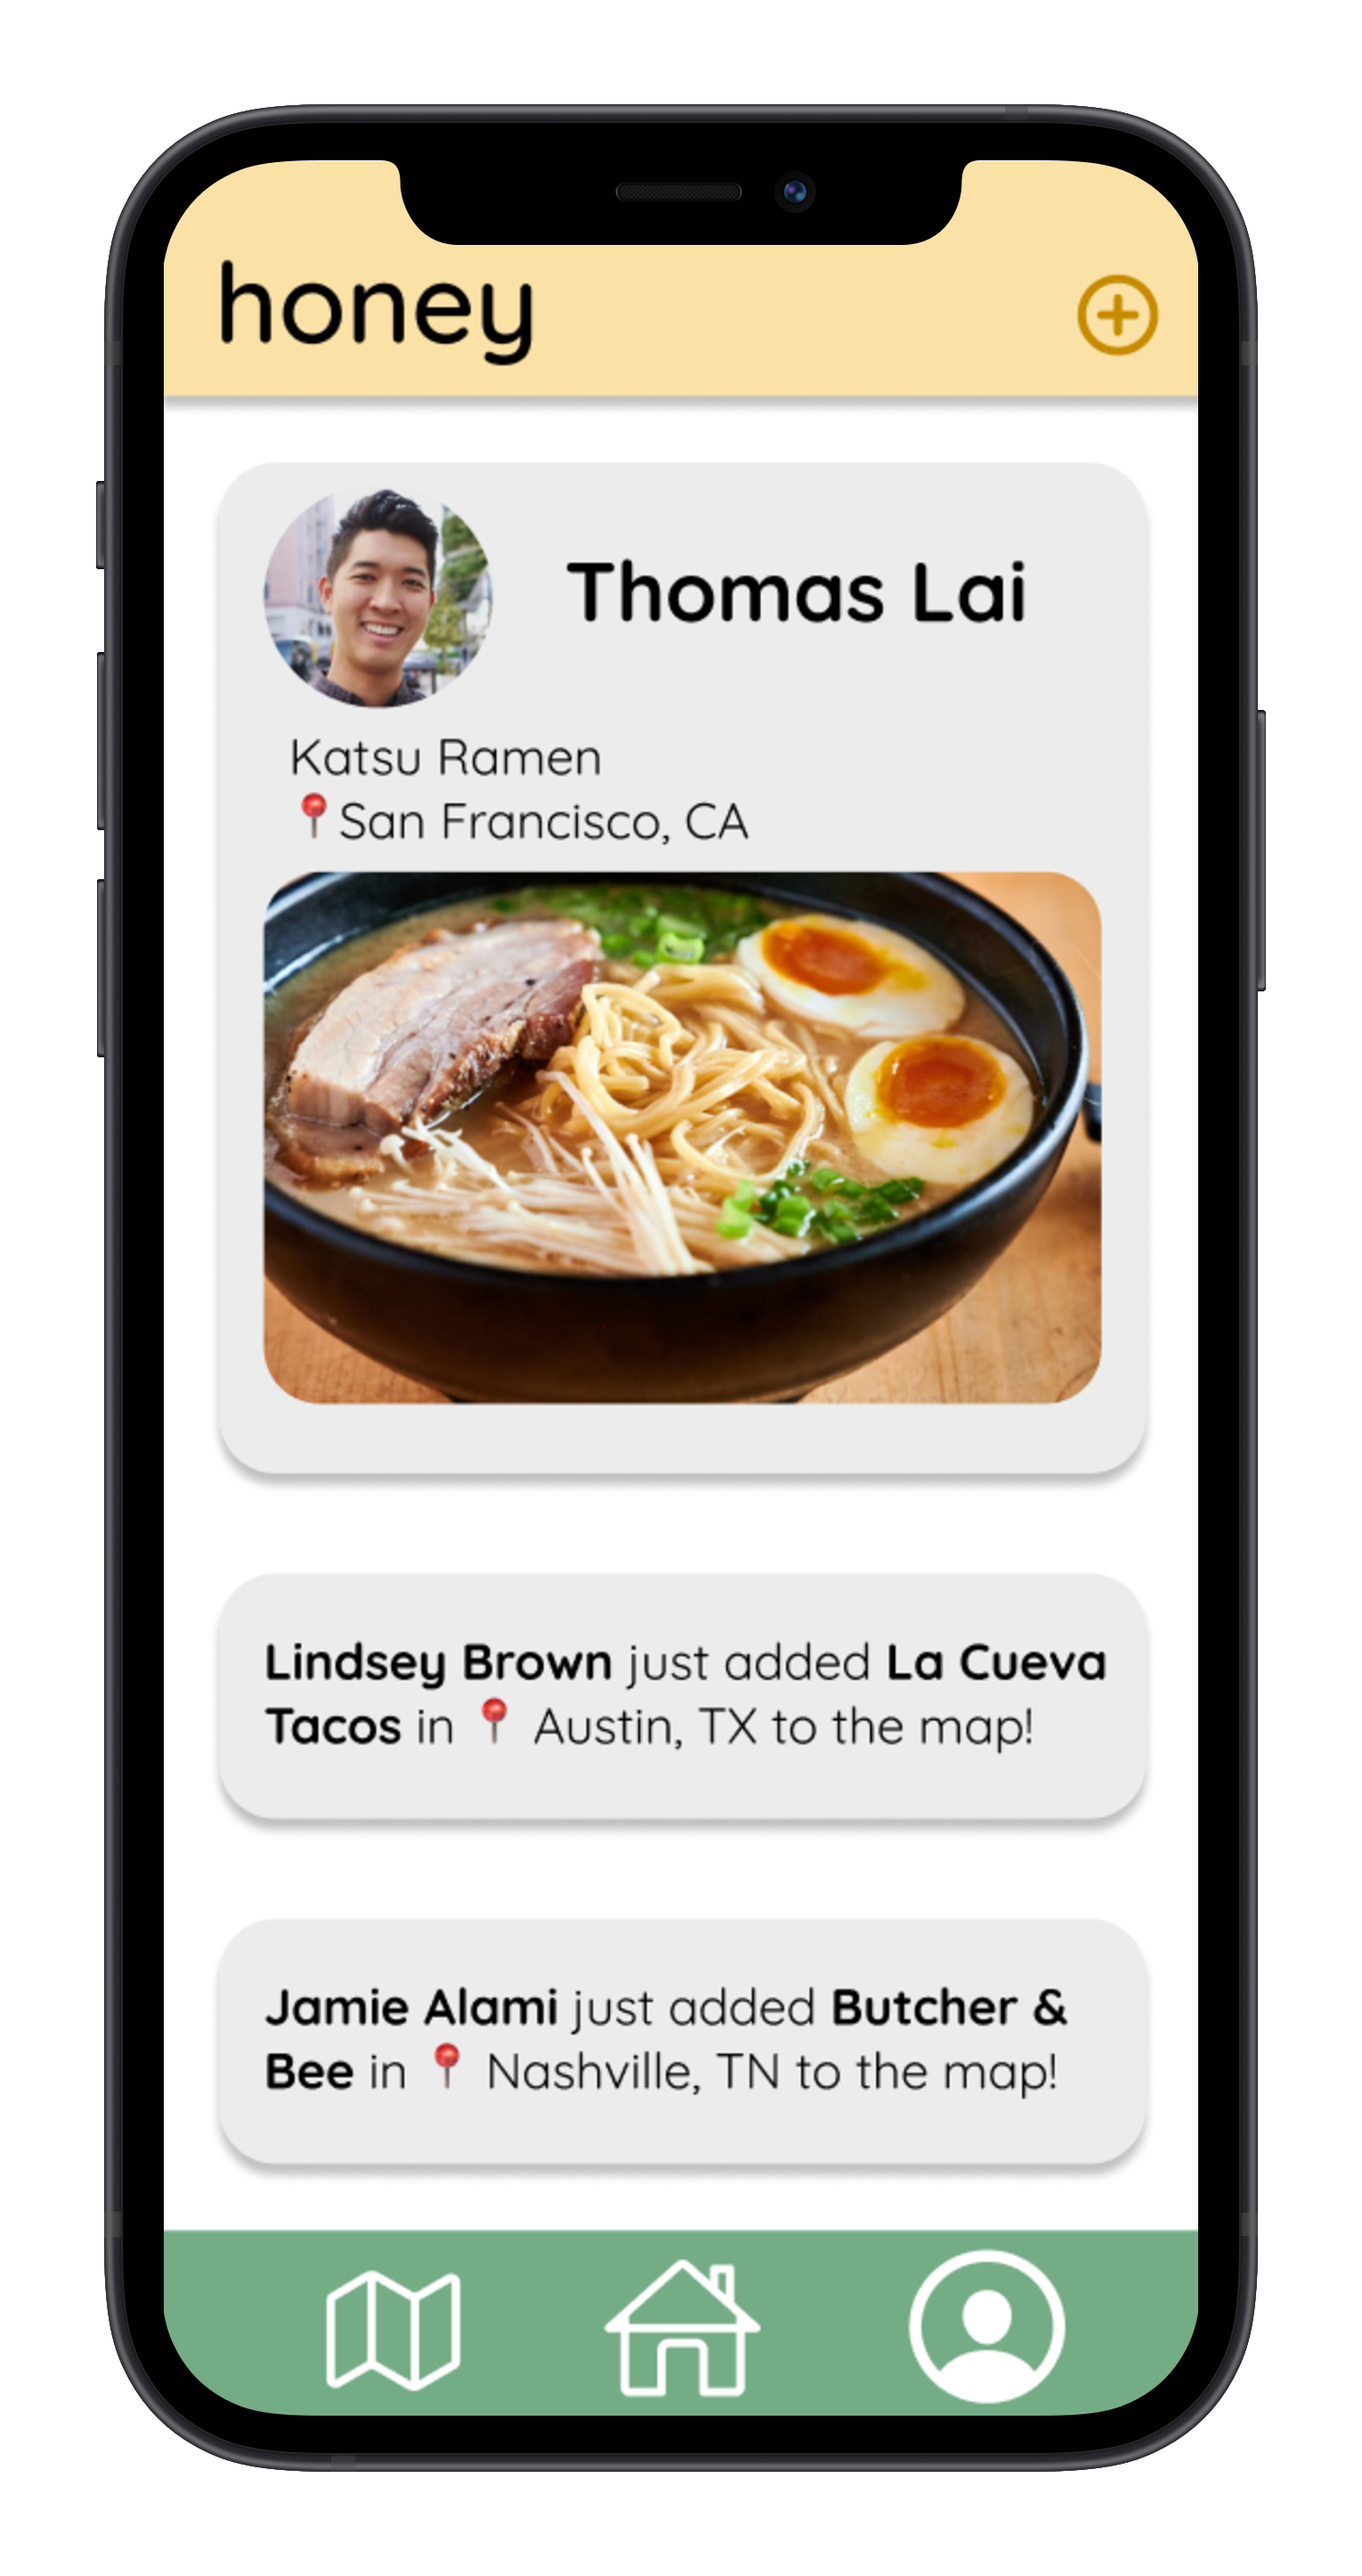
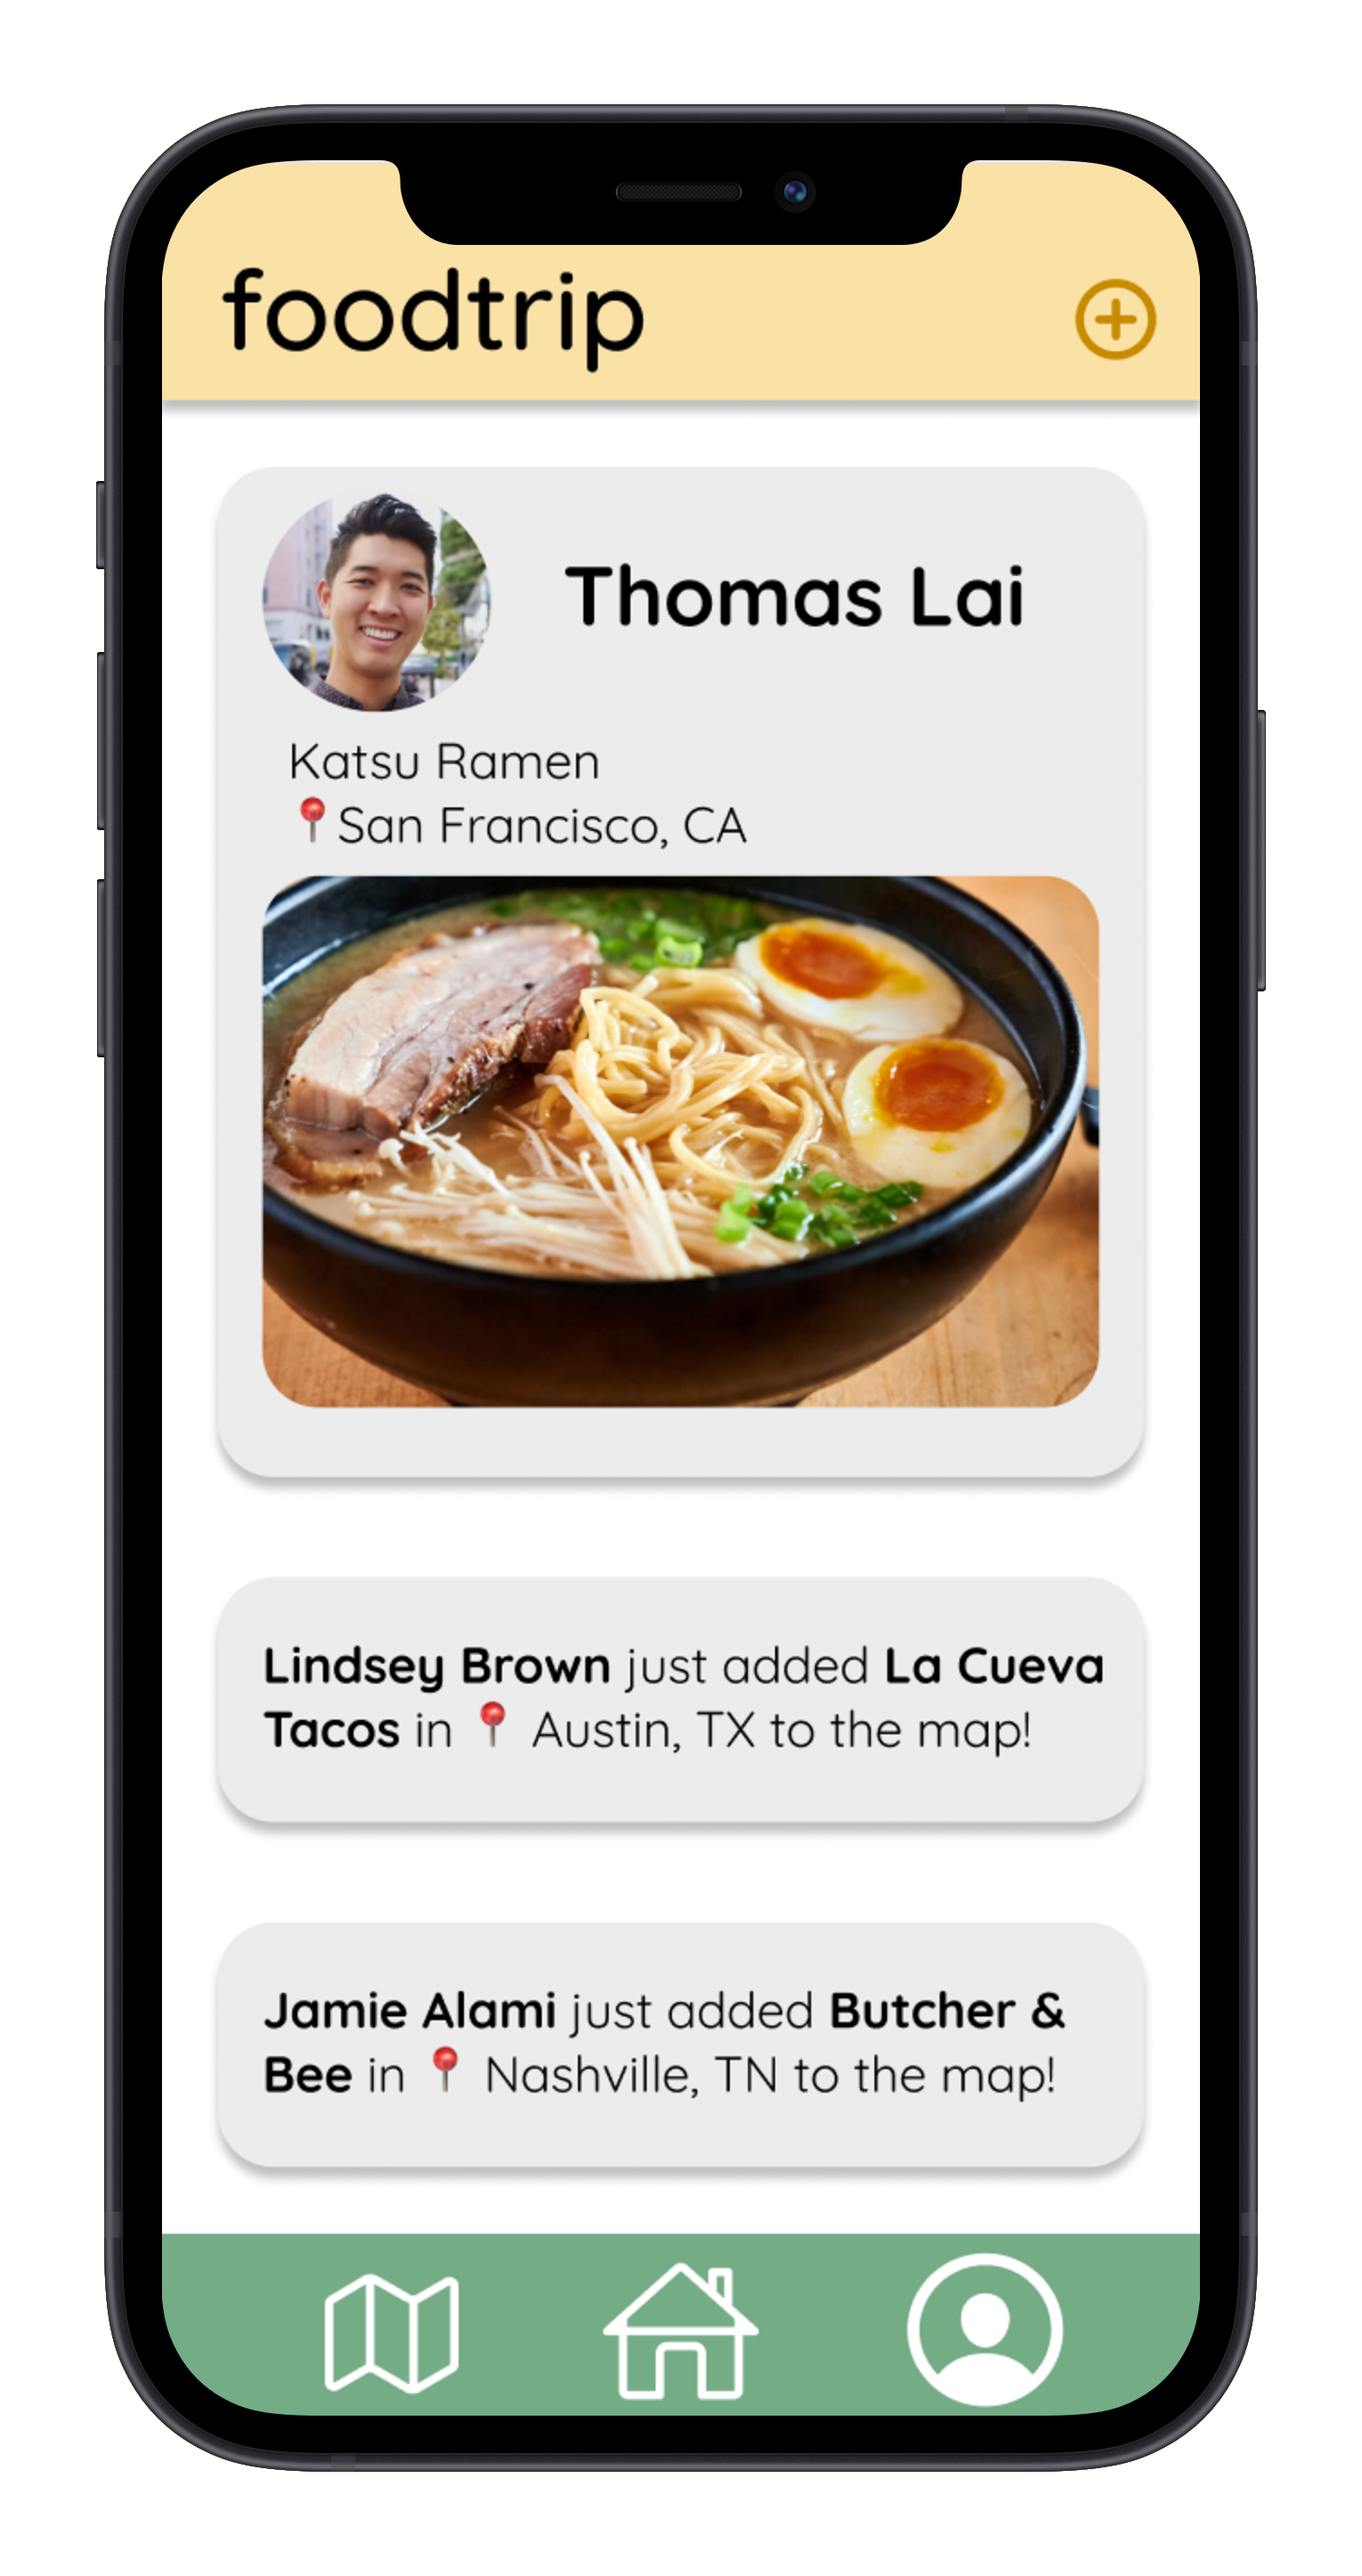
Foodtrip

diff --git a/index.html b/index.html
@@ -18,7 +18,7 @@
 
     <meta property="og:image" content="img/preview.png"/>
     <meta property="og:description" content="The socialized food app for people who want the best dining experiences around the world 🌎"/>
-    <title>Honey | Socialized Food 🍽</title>
+    <title>Foodtrip | Socialized Food 🍽</title>
 </head>
 
 <body>
@@ -28,7 +28,7 @@
     <!-- Navigation Bar -->
     <nav>
       <div class="logo">
-        <a href="https://honey-eats.com/"><img src="img/honey-1.png" alt="Logo" width="70vh"></a>
+        <a href="https://foodtrip.dev/"><img src="img/honey-1.png" alt="Logo" width="70vh"></a>
       </div>
 
       <div class="hamburger">
@@ -50,7 +50,7 @@
         <div class="column-2" data-aos="fade-up" data-aos-duration="1000">
           <div class="card-2">
             <br><br><br>
-            <h1>honey</h1>
+            <h1>foodtrip</h1>
             <br>
             <h2>The socialized food app for people who want the best dining experiences around the world 🌎</h2>
             <br>
@@ -141,7 +141,7 @@
         </a>
         <br>
         <div>
-          <p2>© 2021 HONEY. ALL RIGHTS RESERVED.</p2>
+          <p2>© 2021 FOODTRIP. ALL RIGHTS RESERVED.</p2>
         </div>
       </div>
     </div>
